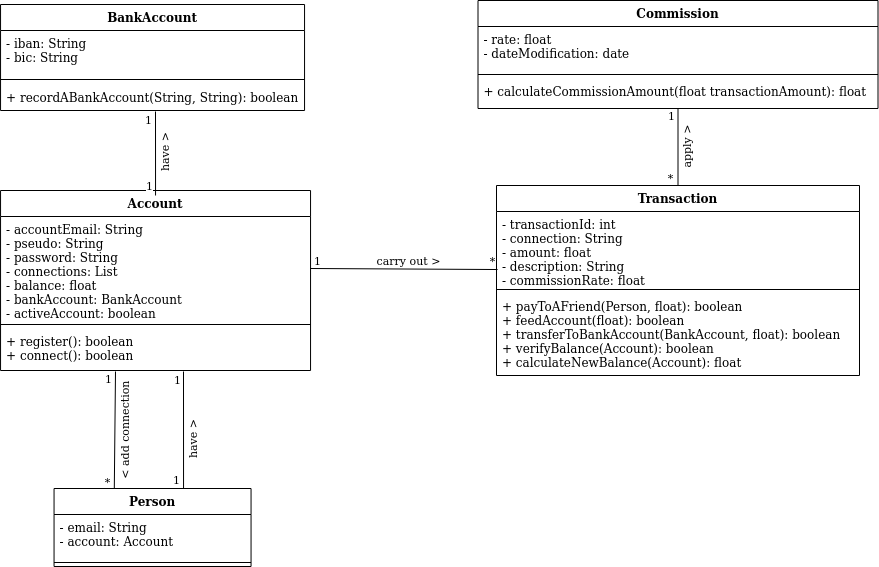
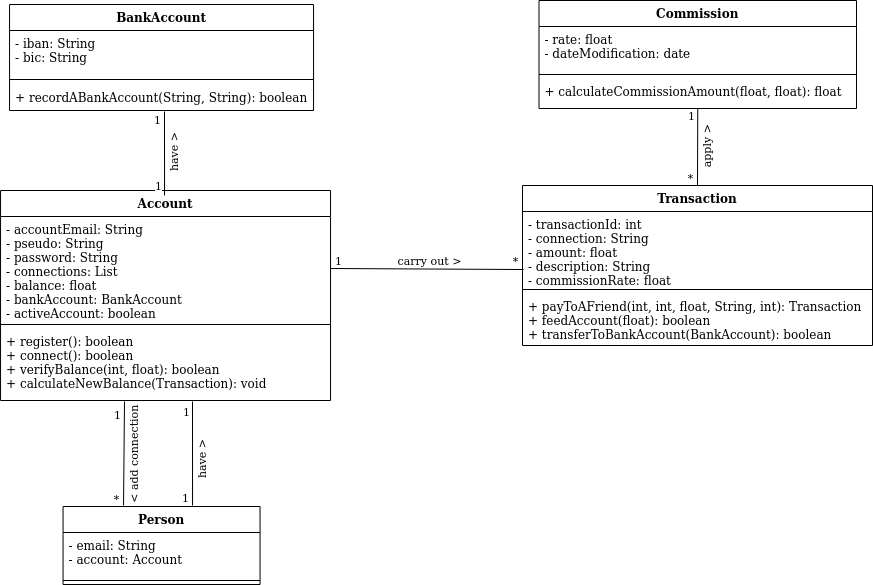
implements methods to carry out a transaction between 2 accounts

diff --git a/src/main/java/com/paymybuddy/paymybuddy/service/AccountService.java b/src/main/java/com/paymybuddy/paymybuddy/service/AccountService.java
@@ -2,10 +2,14 @@ package com.paymybuddy.paymybuddy.service;
 
 import java.util.Optional;
 
+import javax.transaction.Transactional;
+
 import org.springframework.beans.factory.annotation.Autowired;
 import org.springframework.stereotype.Service;
 
 import com.paymybuddy.paymybuddy.model.Account;
+import com.paymybuddy.paymybuddy.model.Commission;
+import com.paymybuddy.paymybuddy.model.Transaction;
 import com.paymybuddy.paymybuddy.repository.AccountRepository;
 
 @Service
@@ -13,6 +17,9 @@ public class AccountService {
 
 	@Autowired
 	private AccountRepository accountRepository;
+	
+	@Autowired
+	private CommissionService commissionService;
 	
 	public Optional<Account> getAccountById(int id) {
 		return accountRepository.findById(id);
@@ -28,5 +35,46 @@ public class AccountService {
 	
 	public void deleteAccount(Account account) {
 		accountRepository.delete(account);
+	}
+	
+	/**
+	 * verifies a transaction can be carried out
+	 * @param accountId : Id of the user account
+	 * @param amount : amount which must be subtracted from the user account balance
+	 * @return true if the balance is greater than or equal to the amount of the transaction
+	 */
+	public boolean verifyBalance(int accountId, float amount) {
+		Optional<Account> accountOptional = getAccountById(accountId);
+		Account account = accountOptional.get();
+		float balance = account.getBalance();
+		if(balance >= amount) {
+			return true;
+		}
+		return false;
+	}
+	
+	/**
+	 * subtracts the amount from the user account and adds the amount to the connection account
+	 * @param transaction : Transaction carried out between an user and a connection
+	 */
+	@Transactional
+	public void calculateNewBalance(Transaction transaction) {
+		Optional<Account> userAccountOptional = getAccountById(transaction.getAccountId());
+		Account userAccount = userAccountOptional.get();
+		Optional<Account> connectionAccountOptional = getAccountById(transaction.getConnectionId());
+		Account connectionAccount = connectionAccountOptional.get();
+		Optional<Commission> commissionOptional = commissionService.getCommissionById(transaction.getCommissionId());
+		Commission commission = commissionOptional.get();
+		float commissionRate = commission.getRate();
+
+		float commissionAmount = commissionService.calculateCommissionAmount(transaction.getAmount(), 
+				commissionRate);
+		float userbalance = userAccount.getBalance() - transaction.getAmount() - commissionAmount;
+		userAccount.setBalance(userbalance);
+		userAccount = saveAccount(userAccount);
+		
+		float connectionBalance = connectionAccount.getBalance() + transaction.getAmount();
+		connectionAccount.setBalance(connectionBalance);
+		saveAccount(connectionAccount);
 	}
 }

diff --git a/src/main/java/com/paymybuddy/paymybuddy/service/TransactionService.java b/src/main/java/com/paymybuddy/paymybuddy/service/TransactionService.java
@@ -5,6 +5,7 @@ import java.util.Optional;
 import org.springframework.beans.factory.annotation.Autowired;
 import org.springframework.stereotype.Service;
 
+import com.paymybuddy.paymybuddy.model.Account;
 import com.paymybuddy.paymybuddy.model.Transaction;
 import com.paymybuddy.paymybuddy.repository.TransactionRepository;
 
@@ -13,6 +14,9 @@ public class TransactionService {
 
 	@Autowired
 	private TransactionRepository transactionRepository;
+	
+	@Autowired
+	private AccountService accountService;
 	
 	public Optional<Transaction> getTransactionById(int id) {
 		return transactionRepository.findById(id);
@@ -28,5 +32,35 @@ public class TransactionService {
 	
 	public void deleteTransaction(Transaction transaction) {
 		transactionRepository.delete(transaction);
+	}
+	
+	/**
+	 * carries out a transaction and saves it in database
+	 * @param accountId : account id of the user
+	 * @param connectionId : account id of the connection
+	 * @param amount : amount of the transaction
+	 * @param description : small description of the transaction
+	 * @param commissionId : id of the commission of the transaction
+	 * @return the Transaction if carried, null else
+	 */
+	public Transaction payToAFriend(int accountId, int connectionId, Float amount, String description,
+			int commissionId) {
+		Transaction transaction = new Transaction();
+		transaction.setAccountId(accountId);
+		transaction.setConnectionId(connectionId);
+		transaction.setAmount(amount);
+		transaction.setDescription(description);
+		transaction.setCommissionId(commissionId);
+		if(accountService.verifyBalance(accountId, amount)) {
+			transaction = saveTransaction(transaction);
+			accountService.calculateNewBalance(transaction);
+			return transaction;
+		}
+		else {
+			System.out.println("Error: the transaction can't carried out");
+			System.out.println("Please, add money to the account");
+			return null;
+		}
+		
 	}
 }

diff --git a/src/main/java/com/paymybuddy/paymybuddy/service/CommissionService.java b/src/main/java/com/paymybuddy/paymybuddy/service/CommissionService.java
@@ -29,4 +29,14 @@ public class CommissionService {
 	public void deleteCommission(Commission commission) {
 		commissionRepository.delete(commission);
 	}
+	
+	/**
+	 * calculates the amount of the commission for a commission rate
+	 * @param amount : transaction amount 
+	 * @param commissionRate : commission rate for the transaction
+	 * @return the commission amount
+	 */
+	public float calculateCommissionAmount(float amount, float commissionRate) {
+		return amount * commissionRate;
+	}
 }

diff --git a/src/main/java/com/paymybuddy/paymybuddy/model/Account.java b/src/main/java/com/paymybuddy/paymybuddy/model/Account.java
@@ -15,12 +15,15 @@ import javax.persistence.OneToMany;
 import javax.persistence.OneToOne;
 import javax.persistence.Table;
 
+import org.hibernate.annotations.DynamicUpdate;
+
 /**
  * Entity linked to the account table in the database
  * @author fabien
  *
  */
 @Entity
+@DynamicUpdate
 @Table(name = "account")
 public class Account {
 
